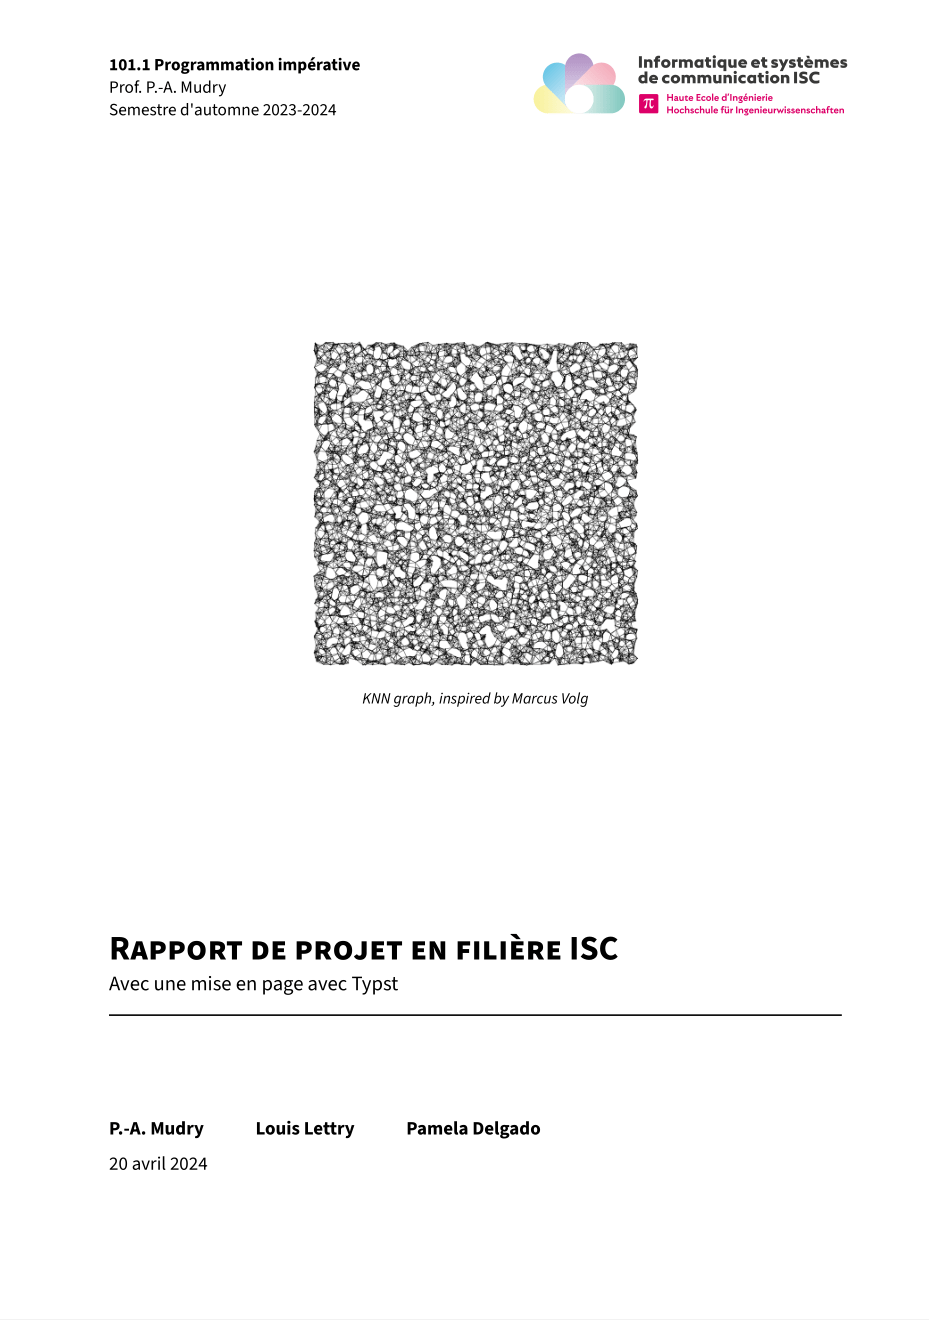
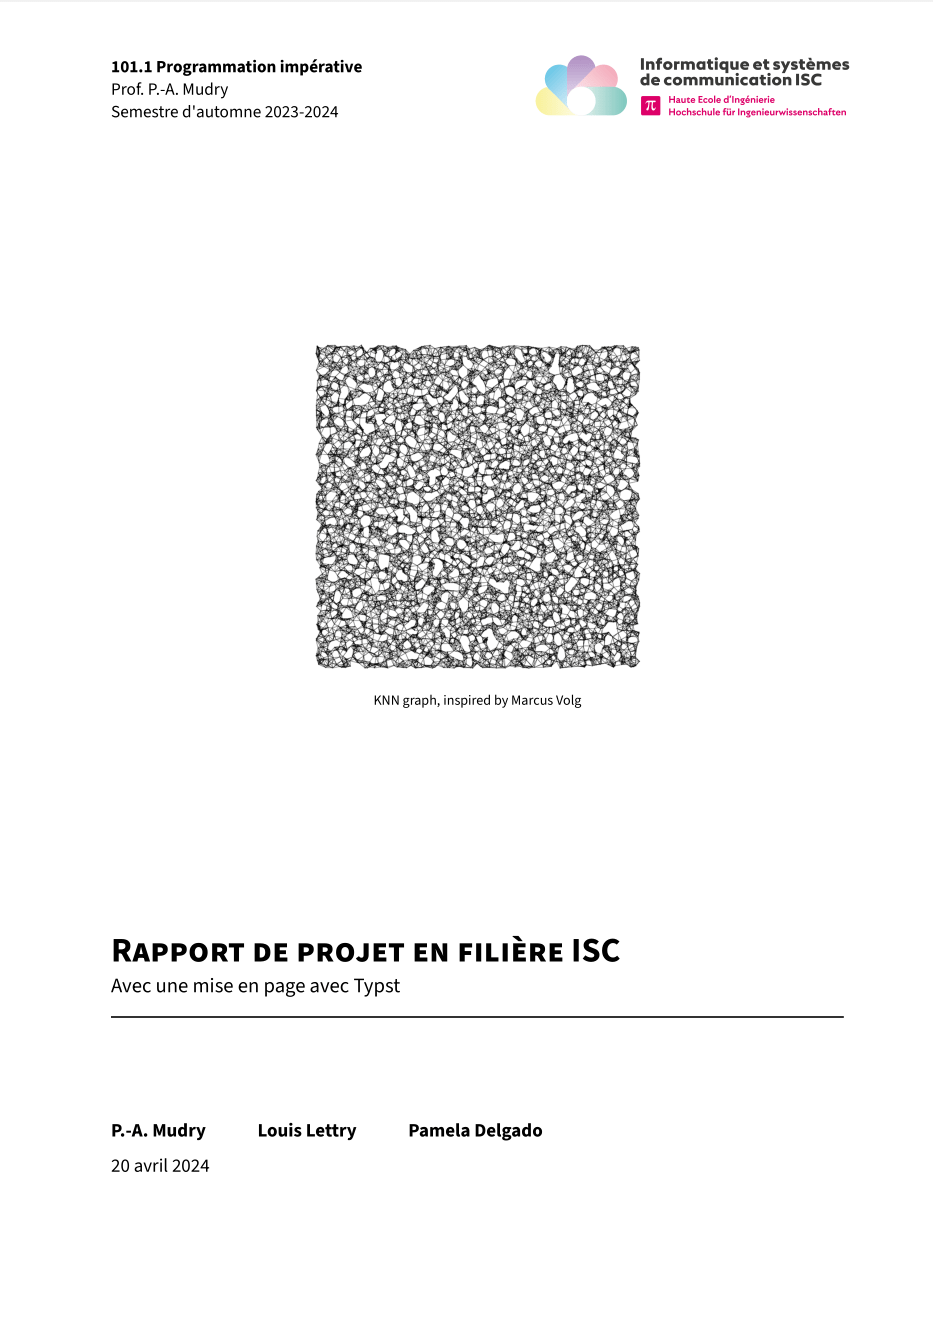
Template updates : - correct captions - nicer headers - appendix page in TOC + layout - Nicer header for acronyms

diff --git a/NOTES.md b/NOTES.md
@@ -1,0 +1,29 @@
+# Building notes 
+How to to build locally and deploy to Typst app and Typst templates.
+
+## Image quantization
+To reduce the size of images, which is nice for reducing the template size.
+
+```bash
+pngquant *.png --ext .png --force
+```
+
+## Integration to the official repos
+
+- Create symlink to this repository from `~/.cache/typst/packages` to `git/packages/packages/preview`. For this : 
+    ```bash
+    ln -s ~/git/modern-isc-report ~/.cache/typst/packages/preview/
+    ```
+
+    This prevents the download of packages and uses the local versions of this package.
+
+- For local testing and development, once the step above has been done, you can simply build from the `template` directory using `typst watch report.typ`
+
+- Additional testing can be conducted to see if the template instance works correctly with 
+
+    ```bash
+    typst init @preview/modern-isc-report:0.1.0
+    ```
+
+- Copy the content of this repos to the `typst-template` repository. Create PR as usual.
+

diff --git a/README.md b/README.md
@@ -16,7 +16,7 @@ This is an official template for students reports for the [ISC degree programme]
 In the Typst web application, start with the `modern-isc-report` and voilà ! Using the CLI, you can initialize the project with the command : 
 
 ```bash
-typst init @preview/modern-isc-report
+typst init @preview/modern-isc-report:0.1.0
 ```
 
 This template will initialize an sample report with sensible default values.
